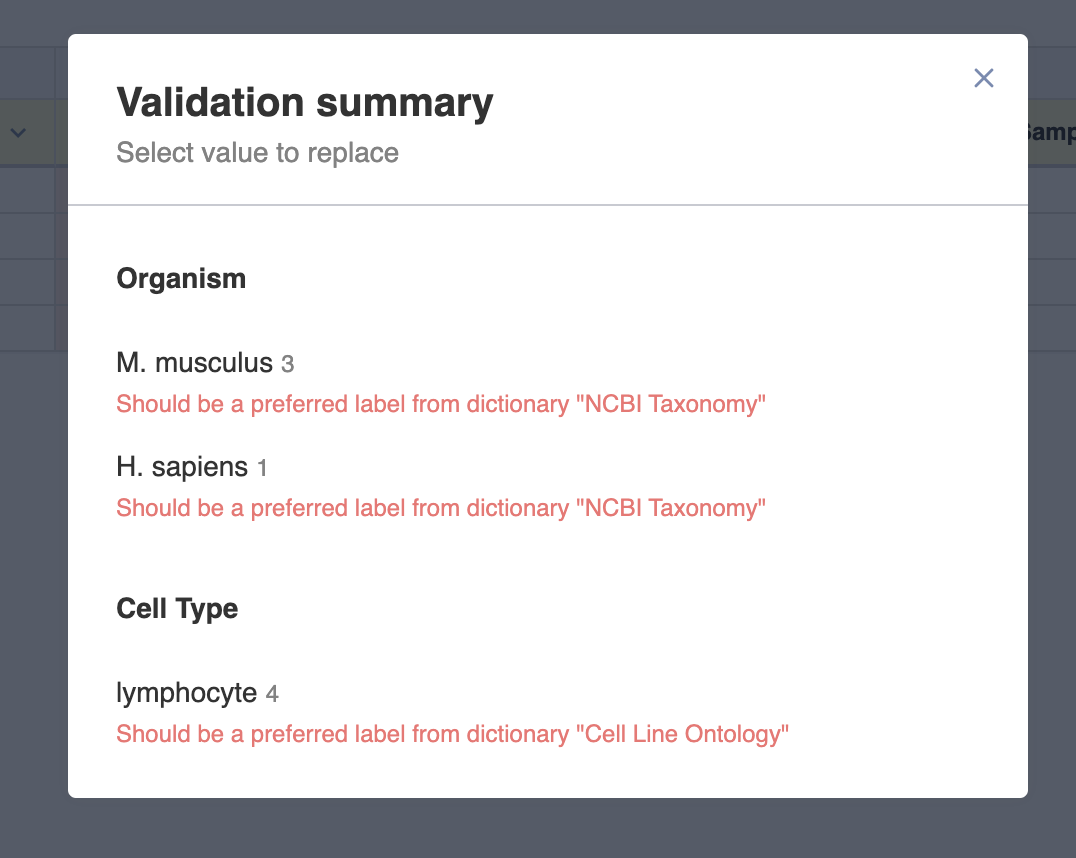
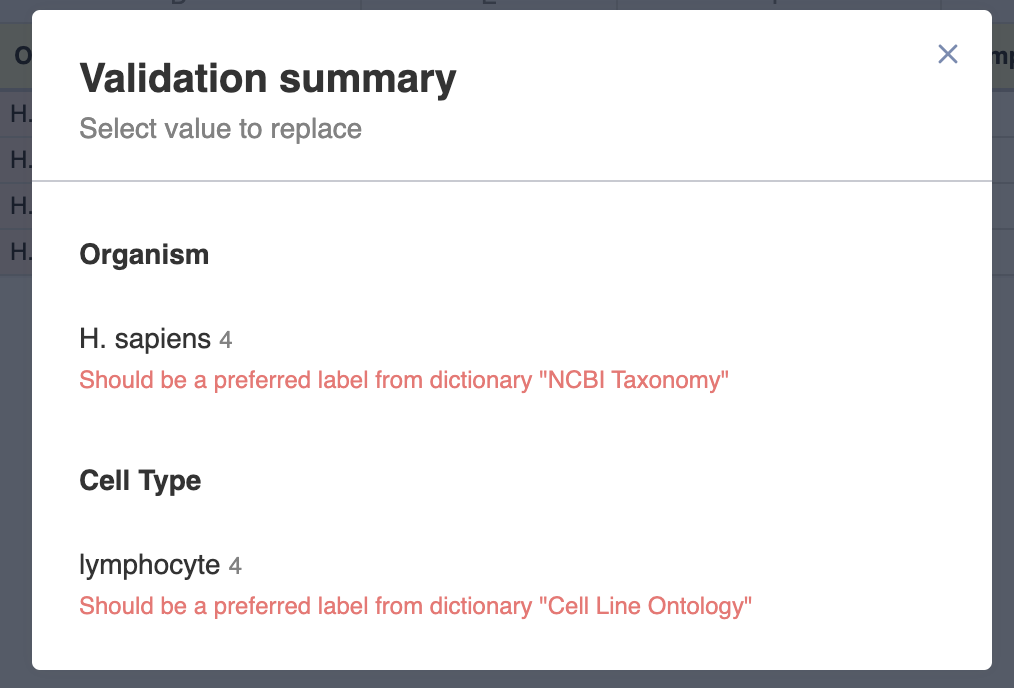
update bulk replace part

Changed region(s): [[0.0, 0.0, 1.0, 0.9767]]

diff --git a/source/doc-odm-user-guide/curator_guide.rst b/source/doc-odm-user-guide/curator_guide.rst
@@ -28,7 +28,7 @@ Metadata Editor
 ---------------
 
 .. image:: images/Study-metainfo-editor-new-study.png
-   :scale: 60 %
+   :scale: 40 %
    :align: center
 
 The Metadata Editor application is where you can make changes to the metadata of Study, Samples and any processed/experimental metadata.
@@ -36,7 +36,7 @@ The Metadata Editor application is where you can make changes to the metadata of
 To rename the study click on the "New Study" link at the top of the page and select "Rename". Type in the new name and click the blue "Rename" button.
 
 .. image:: images/New-study-rename1.png
-   :scale: 60 %
+   :scale: 40 %
    :align: center
 
 .. image:: images/New-study-rename2.png
@@ -46,42 +46,96 @@ To rename the study click on the "New Study" link at the top of the page and sel
 Validation
 ----------
 
-Metadata fields are checked against a specific template (given above the Study name), and if required fields are missing or have incorrect values as determined by the template then an "Invalid metadata" flag is shown, together with a red background for the field which is invalid. Templates contain specific rules for each of the Study, Samples and processed/experimental metadata tabs.
+Metadata fields are checked against a specific template (given above the Study name), and if required fields are missing
+or have incorrect values as determined by the template then an "Invalid metadata" flag is shown, together with a red
+background for the field which is invalid. Templates contain specific rules for each of the Study, Samples and
+processed/experimental metadata tabs.
 
-The specific template that applies for a dataset can be changed by clicking the "Choose another.." button.
+The specific template that applies for a dataset can be changed by clicking the **Choose another..** button.
 
 .. image:: images/template-selection.png
    :scale: 35 %
    :align: center
 
-If some metadata fields are filled in incorrectly, for example a specified value has some typos or metadata terms
+To correct metadata you can use **bulk replace** function. If some metadata fields are filled in incorrectly, for example a specified value has some typos or metadata terms
 don't match the template, you will see the **Invalid metadata** link in the upper right corner.
-Click on this link opens the **Validation Summary** pop-up window where you could find metadata that should be corrected.
+
+.. image:: images/invalid-metadata.png
+   :scale: 30 %
+   :align: center
+
+Another option to aid bul replace is to click the name a metadata filed that include incorrect values
+and select "Bulk replace" in the drop down list.
+
+.. image:: images/bulk-replace-dropdown.png
+   :scale: 40 %
+   :align: center
+
+Click on the Invalid metadata link or "Bulk replace" option opens the **Validation Summary** pop-up window where you could find metadata that should be corrected.
 
 .. image:: images/validation-summary.png
-   :scale: 50 %
+   :scale: 40 %
    :align: center
+
+Then, select a value that should be replaced in metadata of samples.
+
+.. image:: images/validation-summary2.png
+   :scale: 40 %
+   :align: center
+
+The **Replace values** window will open allowing you to type in a correct value.
+If the field is controlled by a dictionary then auto-complete suggestions will also appear
+so that you can match the dictionary terms.
+
+.. image:: images/replace-with.png
+   :scale: 40 %
+   :align: center
+
+Click **Replace in...** button to apply the changes.
+
+.. image:: images/replace-with2.png
+   :scale: 30 %
+   :align: center
+
+Immediately the incorrect metadata values will be replaced with the new terms.
+
+.. image:: images/replaced.png
+   :scale: 40 %
+   :align: center
+
+If there are some filters applied (for example, "Sex" - "male"), you can replace values only for filtered samples.
+
+.. image:: images/only-filtered.png
+   :scale: 40 %
+   :align: center
+
+As a result, valkus for only filtered samples will be changed.
+
+.. image:: images/only-filtered2.png
+   :scale: 40 %
+   :align: center
+
 
 
 Correcting metadata
 ===================
 
-To correct metadata, click the field you wish to change. If the input is text you can type a new value in directly. When all the fields in a tab have been corrected the Invalid metadata flag will be removed an instead a green "Metadata is valid" flag will show.
+To correct metadata, click the field you wish to change. If the input is text you can type a new value in directly.
+When all the fields in a tab have been corrected the Invalid metadata flag will be removed an instead a green
+"Metadata is valid" flag will show.
 
 .. image:: images/corrected-metadata.png
    :scale: 80 %
    :align: center
 
-Fields which have dictionaries specified for them in the template, for example, Organism, allow you to click the triangle in order to select a term from a list given by the dictionary, or you can begin to type and the window will suggest auto-completions for you. Terms matching dictionary terms will turn green.
+Fields which have dictionaries specified for them in the template, for example, Organism, allow you to click the
+triangle in order to select a term from a list given by the dictionary, or you can begin to type and the window
+will suggest auto-completions for you. Terms matching dictionary terms will turn green.
 
 .. image:: images/auto-complete.png
    :scale: 50 %
    :align: center
 
-Bulk additions/replacements in the samples tab
-==============================================
-
-In the samples tab there are some functions to aid bulk changes.
 
 Values in the samples table cells can be propagated by dragging the bottom-right corner of a cell.
 
@@ -93,16 +147,10 @@ Values in the samples table cells can be propagated by dragging the bottom-right
    :scale: 50 %
    :align: center
 
-The summary table (seen by clicking the "Show summary" button) you can hover over any metadata row and a "Replace..." link will appear.
+.. The summary table (seen by clicking the "Show summary" button) you can hover over any metadata row and a "Replace..." link will appear.
 
-.. image:: images/bulk-replace1.png
+.. .. image:: images/bulk-replace1.png
    :scale: 75 %
    :align: center
 
-A window will open allowing you to type in a replacement value. If the field is controlled by a dictionary then auto-complete suggestions will also appear so that you can match the dictionary terms.
 
-.. image:: images/bulk-replace2.png
-   :scale: 50 %
-   :align: center
-
-Click "OK" to apply the changes.
